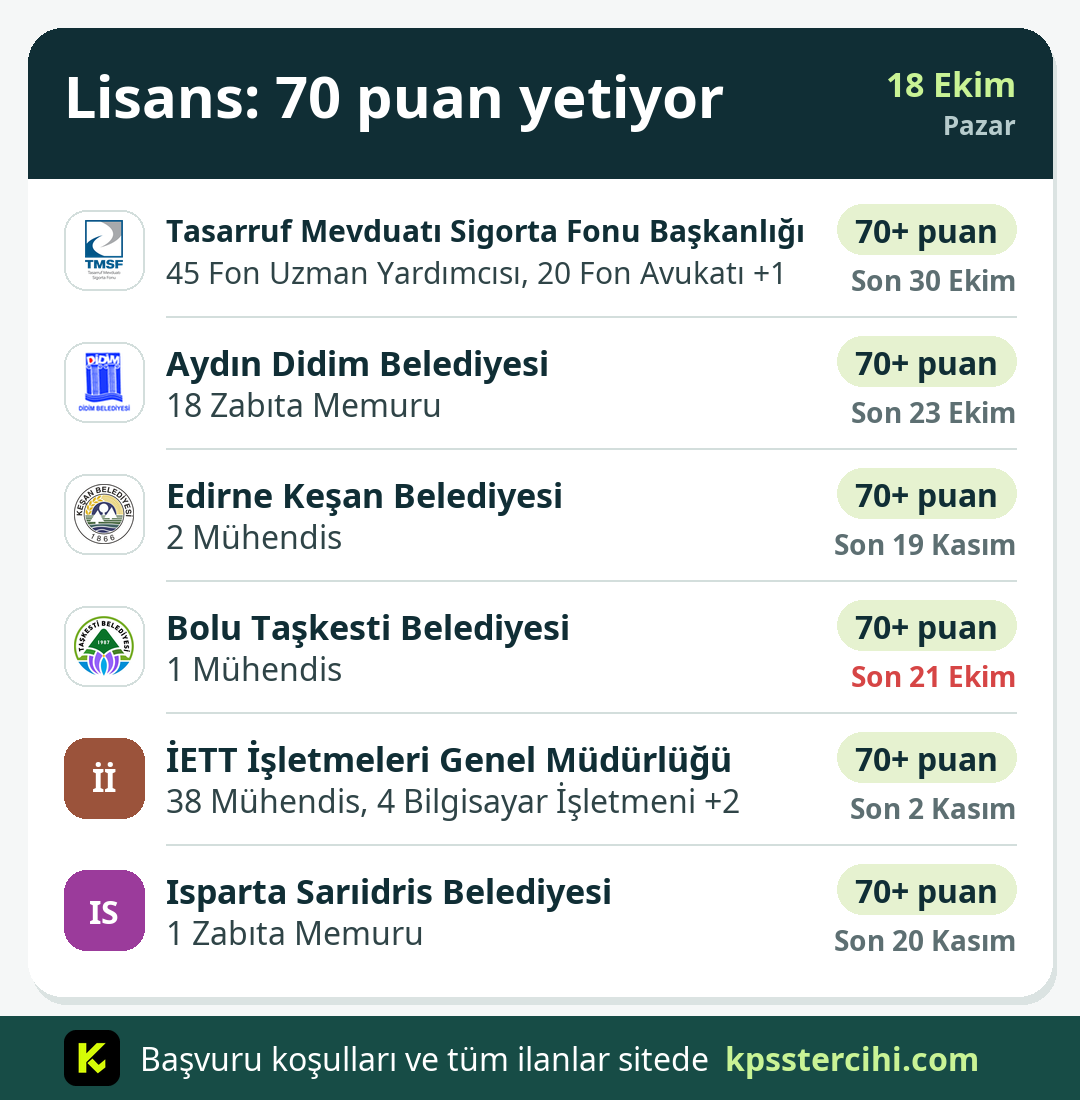
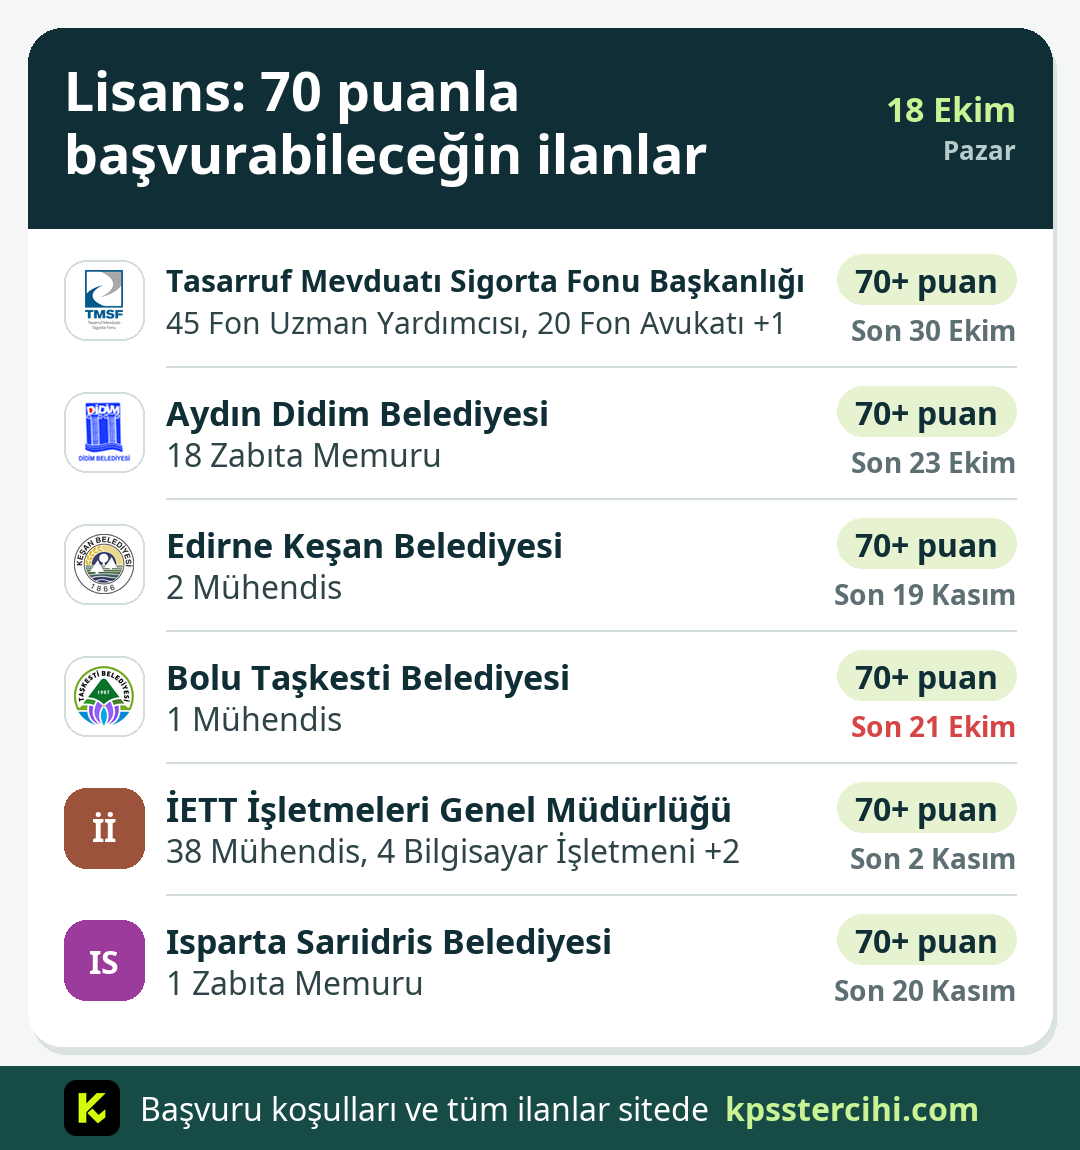
Lisans 70 kartı: '70 puanla başvurabileceğin ilanlar' başlığı; liste kartında kesilen başlık iki satıra iner

diff --git a/bot/kart_tasarimlari.py b/bot/kart_tasarimlari.py
@@ -630,7 +630,7 @@ def liste_karti(ilanlar, baslik, simdi=None, logolar=None, tur='yeni', koyu=Fals
     tarih_w = 210
     olcu = ImageDraw.Draw(Image.new('RGB', (1, 1)))
     satirlar, yz = sigdir(olcu, baslik, True, [58, 54, 50, 46, 44], sag - KENAR - tarih_w, 1)
-    if len(satirlar) > 1 or olcu.textlength(satirlar[0], font=yz) > sag - KENAR - tarih_w:
+    if len(satirlar) > 1 or satirlar[0].endswith('…') or olcu.textlength(satirlar[0], font=yz) > sag - KENAR - tarih_w:
         satirlar, yz = sigdir(olcu, baslik, True, [54, 50], sag - KENAR - tarih_w, 2)
     bh = 150 if len(satirlar) == 1 else 200
     dis, sh, golge = 28, 84, 20
